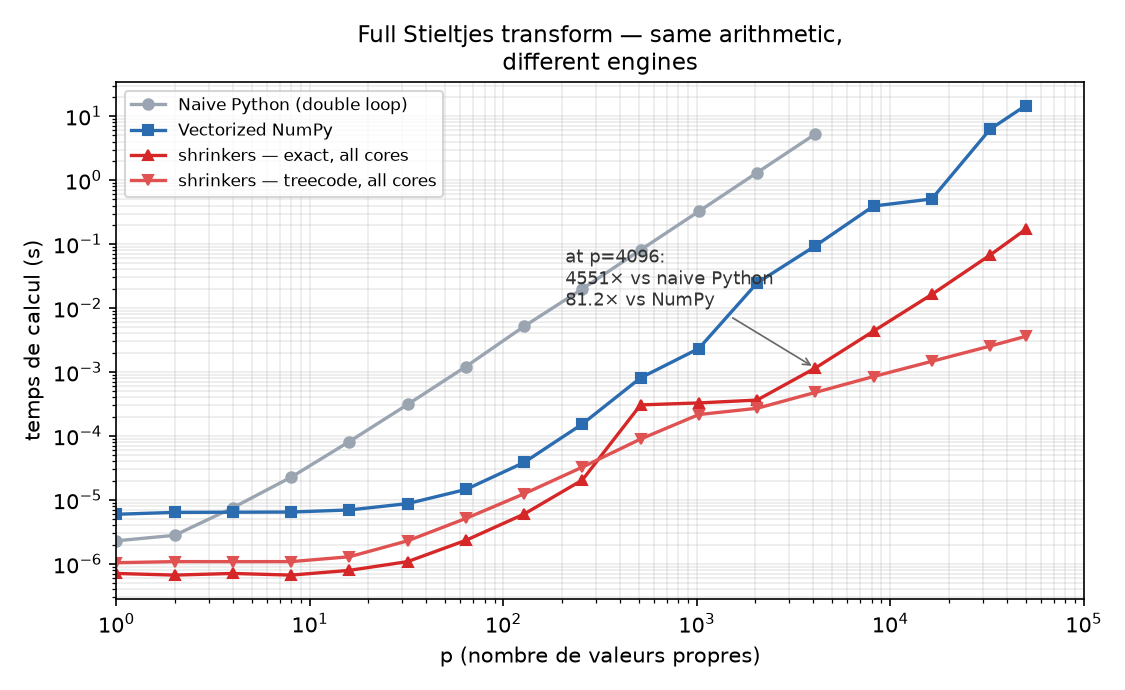
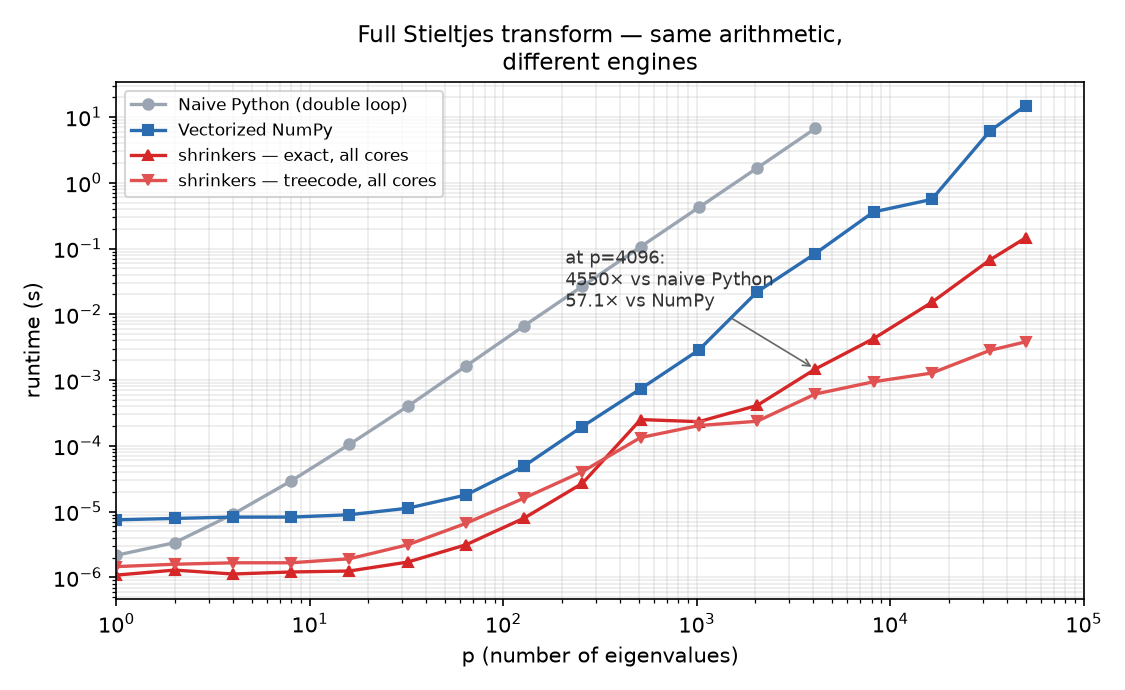
docs: regenerate stale performance figure; disambiguate treecode naming
performance.png on disk predated the switch to English labels (the
regeneration gate only re-renders it when the runtime data changes),
so GitHub served French legends; cleaning_quality.png came out
byte-identical, confirming it was already current. Regenerated both.

Terminology: two distinct methods were both described as 'tree code' —
the legacy TreeCode (alias 'fmm') and the ChebCode* family of
Chebyshev-interpolation treecodes. README prose now names ChebCode /
ChebCodeFast explicitly where the fast presets are meant, and
internals.md gains a naming note at the method table.

diff --git a/README.md b/README.md
@@ -10,7 +10,8 @@ free-probability deconvolution: detect spikes (BEMA — Bulk Eigenvalue
 Matching Analysis), debias them with the inverse BBP map (the
 Baik–Ben Arous–Péché phase transition), and deconvolve the bulk (El
 Karoui). Features O(p log p)
-Chebyshev-treecode Stieltjes transforms, auto-vectorized loops,
+ChebCode treecodes (Chebyshev interpolation) for the
+Stieltjes transform, auto-vectorized loops,
 cache blocking, multi-threaded kernels (**~6× on an 8-core machine**, one keyword away),
 and PyO3 bindings.
 
@@ -53,7 +54,7 @@ vectorized NumPy version:
 *Full transform of all p points, log-log over the whole 10⁰–10⁵ range,
 η = 1/√p, Apple M1 Max, NumPy 2.5.1.*
 
-| p | Naive Python | NumPy | shrinkers exact ¹ | shrinkers treecode ² |
+| p | Naive Python | NumPy | shrinkers exact ¹ | shrinkers ChebCode ² |
 |---|---|---|---|---|
 | 1 024 | 0.32 s | 2.3 ms | **0.33 ms** · 7× | **0.22 ms** · 11× |
 | 4 096 | 5.2 s | 94 ms | **1.2 ms** · 81× | **0.48 ms** · 195× |
@@ -82,7 +83,7 @@ sharing. Measured on the 8-core machine above (fresh sweep,
 | 10 000 | 38.6 ms | 6.4 ms | **×6.0** |
 | 50 000 | 0.94 s | 0.16 s | **×5.9** |
 
-The Chebyshev treecode scales too (×3.3–4.5). Note also that the NumPy baseline in figure 2
+ChebCodeFast scales too (×3.3–4.5). Note also that the NumPy baseline in figure 2
 is itself single-core — even pinned to one thread, shrinkers still wins
 by roughly an order of magnitude (9.1× at p≈5000).
 
@@ -91,12 +92,12 @@ by roughly an order of magnitude (9.1× at p≈5000).
 - `deconvolve_spiked(evals, c)` — the one-call pipeline: BEMA detection →
   inverse-BBP spike debiasing → El Karoui bulk deconvolution;
 - Stieltjes-transform methods spanning the whole speed/accuracy frontier —
-  machine-precision exact kernels, Chebyshev treecodes (~1e-8 … ~6e-13),
+  machine-precision exact kernels, ChebCode treecodes (~1e-8 … ~6e-13),
   HODLR — plus data-driven `speed_auto` / `accuracy_auto` picks;
 - correlation-matrix cleaning with eigenvector-overlap correction, direct
   precision-matrix shrinkage, Tracy–Widom spike detection;
 - Rust API + PyO3 bindings with the GIL released during computation;
-- multi-core execution built in — exact and treecode kernels parallelize
+- multi-core execution built in — exact and ChebCode kernels parallelize
   multi-core (`parallel=True`).
 
 ## Quickstart

diff --git a/docs/internals.md b/docs/internals.md
@@ -98,6 +98,12 @@ print(res["bulk"]["density"].shape)     # -> (300,), density profile
 | `Fft2` | O(p log p) | Same dual-convolution kernel | ~4e-5 rel |
 | `TreeCode` | O(p log p) | 1D balanced tree (FMM) | User-controllable |
 | `ChebCode` | O(p log p) | Chebyshev-interpolation tree | ~5e-10 rel |
+
+> **Naming note:** `TreeCode` (alias `"fmm"`) is the legacy plain 1D
+> tree code — a different method from the `ChebCode*` family, which are
+> also tree codes but interpolate source densities on Chebyshev nodes.
+> Prose and benchmarks saying "treecode" without qualification mean the
+> ChebCode family.
 | `Hodlr` | O(r² p log p) | Hierarchical low-rank (ACA / RandNLA modes) | tol-driven (ACA tol 1e-9 → ~7e-10 measured) |
 | `Ewald` | O(p·k + M log M) | Near/far splitting + coarse FFT | User-controllable |
 | `Dst` | O(p log p) | Alias for the `Adaptive` composition (shared FFT grid) | ~4e-5 rel |

diff --git a/docs/eta_choice.md b/docs/eta_choice.md
@@ -73,7 +73,7 @@ the bulk deconvolution.
 | BlockedTiled | 37.6 ms | 37.6 ms | 37.6 ms |
 
 Runtime is essentially η-independent: the exact kernel does identical work;
-the treecode's adaptivity barely notices (slightly *faster* at large η since
+the ChebCode treecode's adaptivity barely notices (slightly *faster* at large η since
 smoother kernels need fewer nodes).
 
 ### Empirical-vs-population gap (part A of the sweep)
